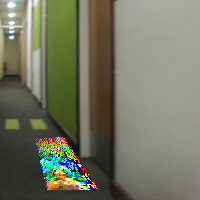
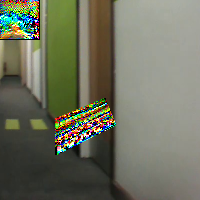
Fixed boundary problems

Changed region(s): [[0.15, 0.48, 0.6, 0.96], [0.0, 0.0, 0.21, 0.21]]

diff --git a/frames.py b/frames.py
@@ -20,8 +20,8 @@ class EditorFrame(Frame):
         self.border = Canvas(self, width=self.screen_w+4, height=self.screen_h+4, highlightthickness=2, highlightbackground="black")
         self.border.pack(pady=0)
 
-        self.canvas = Canvas(self.border, width=self.screen_w, height=self.screen_h)
-        self.canvas.place(x=2, y=2, anchor=NW)
+        self.canvas = Canvas(self.border, width=self.screen_w, height=self.screen_h, highlightthickness=0)
+        self.canvas.place(relx=0.5, rely=0.5, anchor=CENTER)
         self.master.bind("<Escape>", self.clear_selection)
 
         self.patches = []
@@ -88,10 +88,13 @@ class EditorFrame(Frame):
         if self.controller.model is None:
             print("No model loaded")
         else:
+            self.clear_selection(None)
+
             model = self.controller.model
             arr = self.generate_array()
             cv2.imwrite("images/TEST.png", arr)
             arr = np.expand_dims(arr, axis=0) / 255
+
             y_pred = np.array(model.predict(arr))[:, :, 0]
 
             if self.metric_label is not None:

diff --git a/patch.py b/patch.py
@@ -83,9 +83,21 @@ class Patch:
         dy = event.y - self.prev_mouse_Y
         self.prev_mouse_X = event.x
         self.prev_mouse_Y = event.y
-        self.x += dx
-        self.y += dy
-        self.parent.move(self.tag, dx, dy)
+        if self.in_bounds(self.x + dx, self.y + dy):
+            self.x += dx
+            self.y += dy
+            self.parent.move(self.tag, dx, dy)
+
+    def in_bounds(self, x, y):
+        if x < 0:
+            return False
+        if y < 0:
+            return False
+        if x + self.overlay_width >= self.parent.winfo_width():
+            return False
+        if y + self.overlay_height >= self.parent.winfo_height():
+            return False
+        return True
 
     def get_frame(self):
         return self.parent.master.master

diff --git a/run.py b/run.py
@@ -9,8 +9,9 @@ def main():
     app.load_model(str_path, weight_path)
 
 
-    app.current_frame.add_patch_from_file("images/patch3.png")
-    # app.current_frame.add_patch_from_file("images/9.png")
+    app.add_patch("images/patch3.png")
+    app.add_patch("images/patch2.png")
+    # app.current_frame.add_patch_from_file("images/jiggly.png")
     #
     # corners = [(60, 10), (20, 20), (50, 90), (100, 95)]
     # corners = [(y, x) for (x, y) in corners]

diff --git a/app.py b/app.py
@@ -28,3 +28,7 @@ class App:
 
     def load_model(self, struct_path, weights_path):
         self.model = load_network_from_json_and_h5(struct_path, weights_path)
+
+    def add_patch(self, img_file):
+        if isinstance(self.current_frame, EditorFrame):
+            self.current_frame.add_patch_from_file(img_file)
